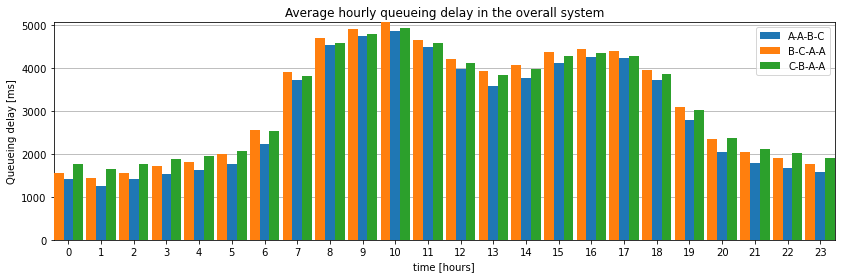
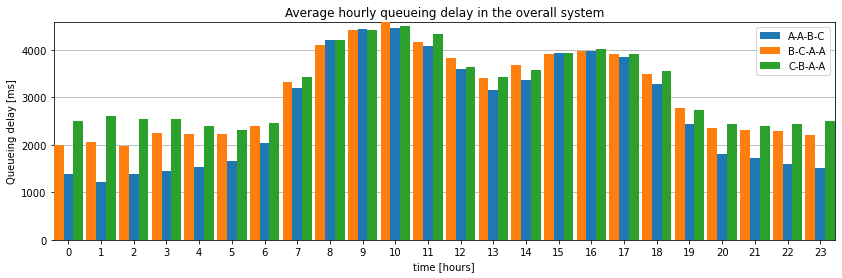
lab2 ex4b update

diff --git a/Lab2/ex4b_sim.py b/Lab2/ex4b_sim.py
@@ -29,49 +29,52 @@ if __name__ == '__main__':
     
     # SIMULATION PARAMS
     SIM_TIME = 86400000 # 24 hours simulation
+        
     
     #%% ABBC
     # data storage object
-    data = sim.Measure()
-    data_cloud = sim.Measure()
+    dataABBC = sim.Measure(0,0,0,0,0,0,0,0,0,0,[],[],[],
+                           [],[],[],[],[],[],[],[],[])
+    data_cloudABBC = sim.Measure(0,0,0,0,0,0,0,0,0,0,[],[],[],
+                           [],[],[],[],[],[],[],[],[])
     
     # simulator
-    s = sim.Simulator(data, data_cloud, LOAD, SERVICE, ARRIVAL, BUFFER_SIZE, 
+    s_ABBC = sim.Simulator(dataABBC, data_cloudABBC, LOAD, SERVICE, ARRIVAL, BUFFER_SIZE, 
                       FOG_NODES, SIM_TIME, f, CLOUD_SERVERS, CLOUD_BUFFER_SIZE, 
                       SERVICE_CLOUD,f_av_arrival, f_f)
     
     # insert constant service rate for all fog Nodes
-    s.CloudServerServTime = [200, 500, 500, 1000]
-    s.CloudServerCosts = [1, 0.4, 0.4, 0.1]
+    s_ABBC.CloudServerServTime = [200, 500, 500, 1000]
+    s_ABBC.CloudServerCosts = [1, 0.4, 0.4, 0.1]
     
     print_everything = False
-    data, data_cloud, time, _, _ = s.simulate(print_everything)
+    dataABBC, data_cloudABBC, time, _, _ = s_ABBC.simulate(print_everything)
     
     print('A-B-B-C simulation')
     print('-'*40)
-    print(f'Average Queueing Delay [ms] = {(data.delay + data_cloud.delay) / (data.dep + data_cloud.dep)}')
-    print(f'Loss Probability = {data_cloud.toCloud/data.arr}')
-    print(f'Average number of users = {(data.ut + data_cloud.ut)/time}')
-    print(f'Total Operational Cost = {sum(s.FogBusyTime * s.FogNodesCosts) + sum(s.CloudServerBusyTime * s.CloudServerCosts)}')
-    print(f'Micro Data Center Operational Cost = {sum(s.FogBusyTime * s.FogNodesCosts)}')
-    print(f'Cloud Data Center Operational Cost = {sum(s.CloudServerBusyTime * s.CloudServerCosts)}')
+    print(f'Average Queueing Delay [ms] = {(dataABBC.delay + data_cloudABBC.delay) / (dataABBC.dep + data_cloudABBC.dep)}')
+    print(f'Loss Probability = {data_cloudABBC.toCloud/dataABBC.arr}')
+    print(f'Average number of users = {(dataABBC.ut + data_cloudABBC.ut)/time}')
+    print(f'Total Operational Cost = {sum(s_ABBC.FogBusyTime * s_ABBC.FogNodesCosts) + sum(s_ABBC.CloudServerBusyTime * s_ABBC.CloudServerCosts)}')
+    print(f'Micro Data Center Operational Cost = {sum(s_ABBC.FogBusyTime * s_ABBC.FogNodesCosts)}')
+    print(f'Cloud Data Center Operational Cost = {sum(s_ABBC.CloudServerBusyTime * s_ABBC.CloudServerCosts)}')
     
     # Average queueing delay with progressively faster MDC service
     costs_hourlyABBC = []
     for i in range(0,24):
         cost_hourly = 0
-        for j in range(len(data_cloud.departureTimes)):
-            if data_cloud.departureTimes[j] > i * 3600000 and data_cloud.departureTimes[j] < (i+1) * 3600000:
-                cost_hourly += data_cloud.costs[j]
+        for j in range(len(data_cloudABBC.departureTimes)):
+            if data_cloudABBC.departureTimes[j] > i * 3600000 and data_cloudABBC.departureTimes[j] < (i+1) * 3600000:
+                cost_hourly += data_cloudABBC.costs[j]
         costs_hourlyABBC.append(cost_hourly)
 
     delay_hourly_avgsABBC = []
     for i in range(0,24):
         delay_hourly_avg = 0
         hour_count = 0
-        for j in range(len(data_cloud.departureTimes)):
-            if data_cloud.departureTimes[j] > i * 3600000 and data_cloud.departureTimes[j] < (i+1) * 3600000:
-                delay_hourly_avg += data_cloud.timeSystem[j]
+        for j in range(len(data_cloudABBC.departureTimes)):
+            if data_cloudABBC.departureTimes[j] > i * 3600000 and data_cloudABBC.departureTimes[j] < (i+1) * 3600000:
+                delay_hourly_avg += data_cloudABBC.timeSystem[j]
                 hour_count += 1
         delay_hourly_avg /= hour_count
         delay_hourly_avgsABBC.append(delay_hourly_avg)
@@ -79,46 +82,48 @@ if __name__ == '__main__':
 
     #%% AABC
     # data storage object
-    data = sim.Measure()
-    data_cloud = sim.Measure()
+    dataAABC = sim.Measure(0,0,0,0,0,0,0,0,0,0,[],[],[],
+                           [],[],[],[],[],[],[],[],[])
+    data_cloudAABC = sim.Measure(0,0,0,0,0,0,0,0,0,0,[],[],[],
+                           [],[],[],[],[],[],[],[],[])
     
     # simulator
-    s = sim.Simulator(data, data_cloud, LOAD, SERVICE, ARRIVAL, BUFFER_SIZE, 
+    s_AABC = sim.Simulator(dataAABC, data_cloudAABC, LOAD, SERVICE, ARRIVAL, BUFFER_SIZE, 
                       FOG_NODES, SIM_TIME, f, CLOUD_SERVERS, CLOUD_BUFFER_SIZE, 
                       SERVICE_CLOUD,f_av_arrival, f_f)
     
     # insert constant service rate for all fog Nodes
-    s.CloudServerServTime = [200, 200, 500, 1000]
-    s.CloudServerCosts = [1, 1, 0.4, 0.1]
+    s_AABC.CloudServerServTime = [200, 200, 500, 1000]
+    s_AABC.CloudServerCosts = [1, 1, 0.4, 0.1]
     
     print_everything = False
-    data, data_cloud, time, _, _ = s.simulate(print_everything)
+    dataAABC, data_cloudAABC, time, _, _ = s_AABC.simulate(print_everything)
     
     print('A-A-B-C simulation')
     print('-'*40)
-    print(f'Average Queueing Delay [ms] = {(data.delay + data_cloud.delay) / (data.dep + data_cloud.dep)}')
-    print(f'Loss Probability = {data_cloud.toCloud/data.arr}')
-    print(f'Average number of users = {(data.ut + data_cloud.ut)/time}')
-    print(f'Total Operational Cost = {sum(s.FogBusyTime * s.FogNodesCosts) + sum(s.CloudServerBusyTime * s.CloudServerCosts)}')
-    print(f'Micro Data Center Operational Cost = {sum(s.FogBusyTime * s.FogNodesCosts)}')
-    print(f'Cloud Data Center Operational Cost = {sum(s.CloudServerBusyTime * s.CloudServerCosts)}')
+    print(f'Average Queueing Delay [ms] = {(dataAABC.delay + data_cloudAABC.delay) / (dataAABC.dep + data_cloudAABC.dep)}')
+    print(f'Loss Probability = {data_cloudAABC.toCloud/dataAABC.arr}')
+    print(f'Average number of users = {(dataAABC.ut + data_cloudAABC.ut)/time}')
+    print(f'Total Operational Cost = {sum(s_AABC.FogBusyTime * s_AABC.FogNodesCosts) + sum(s_AABC.CloudServerBusyTime * s_AABC.CloudServerCosts)}')
+    print(f'Micro Data Center Operational Cost = {sum(s_AABC.FogBusyTime * s_AABC.FogNodesCosts)}')
+    print(f'Cloud Data Center Operational Cost = {sum(s_AABC.CloudServerBusyTime * s_AABC.CloudServerCosts)}')
 
     # Average queueing delay with progressively faster MDC service
     costs_hourlyAABC = []
     for i in range(0,24):
         cost_hourly = 0
-        for j in range(len(data_cloud.departureTimes)):
-            if data_cloud.departureTimes[j] > i * 3600000 and data_cloud.departureTimes[j] < (i+1) * 3600000:
-                cost_hourly += data_cloud.costs[j]
+        for j in range(len(data_cloudAABC.departureTimes)):
+            if data_cloudAABC.departureTimes[j] > i * 3600000 and data_cloudAABC.departureTimes[j] < (i+1) * 3600000:
+                cost_hourly += data_cloudAABC.costs[j]
         costs_hourlyAABC.append(cost_hourly)
 
     delay_hourly_avgsAABC = []
     for i in range(0,24):
         delay_hourly_avg = 0
         hour_count = 0
-        for j in range(len(data_cloud.departureTimes)):
-            if data_cloud.departureTimes[j] > i * 3600000 and data_cloud.departureTimes[j] < (i+1) * 3600000:
-                delay_hourly_avg += data_cloud.timeSystem[j]
+        for j in range(len(data_cloudAABC.departureTimes)):
+            if data_cloudAABC.departureTimes[j] > i * 3600000 and data_cloudAABC.departureTimes[j] < (i+1) * 3600000:
+                delay_hourly_avg += data_cloudAABC.timeSystem[j]
                 hour_count += 1
         delay_hourly_avg /= hour_count
         delay_hourly_avgsAABC.append(delay_hourly_avg)
@@ -126,59 +131,62 @@ if __name__ == '__main__':
 
     #%% ABCC
     # data storage object
-    data = sim.Measure()
-    data_cloud = sim.Measure()
+    dataABCC = sim.Measure(0,0,0,0,0,0,0,0,0,0,[],[],[],
+                           [],[],[],[],[],[],[],[],[])
+    data_cloudABCC = sim.Measure(0,0,0,0,0,0,0,0,0,0,[],[],[],
+                           [],[],[],[],[],[],[],[],[])
     
     # simulator
-    s = sim.Simulator(data, data_cloud, LOAD, SERVICE, ARRIVAL, BUFFER_SIZE, 
+    s_ABCC = sim.Simulator(dataABCC, data_cloudABCC, LOAD, SERVICE, ARRIVAL, BUFFER_SIZE, 
                       FOG_NODES, SIM_TIME, f, CLOUD_SERVERS, CLOUD_BUFFER_SIZE, 
                       SERVICE_CLOUD,f_av_arrival, f_f)
     
     # insert constant service rate for all fog Nodes
-    s.CloudServerServTime = [200, 500, 1000, 1000]
-    s.CloudServerCosts = [1, 0.4, 0.1, 0.1]
+    s_ABCC.CloudServerServTime = [200, 500, 1000, 1000]
+    s_ABCC.CloudServerCosts = [1, 0.4, 0.1, 0.1]
     
     print_everything = False
-    data, data_cloud, time, _, _ = s.simulate(print_everything)
+    dataABCC, data_cloudABCC, time, _, _ = s_ABCC.simulate(print_everything)
     
     print('A-B-C-C simulation')
     print('-'*40)
-    print(f'Average Queueing Delay [ms] = {(data.delay + data_cloud.delay) / (data.dep + data_cloud.dep)}')
-    print(f'Loss Probability = {data_cloud.toCloud/data.arr}')
-    print(f'Average number of users = {(data.ut + data_cloud.ut)/time}')
-    print(f'Total Operational Cost = {sum(s.FogBusyTime * s.FogNodesCosts) + sum(s.CloudServerBusyTime * s.CloudServerCosts)}')
-    print(f'Micro Data Center Operational Cost = {sum(s.FogBusyTime * s.FogNodesCosts)}')
-    print(f'Cloud Data Center Operational Cost = {sum(s.CloudServerBusyTime * s.CloudServerCosts)}')
+    print(f'Average Queueing Delay [ms] = {(dataABCC.delay + data_cloudABCC.delay) / (dataABCC.dep + data_cloudABCC.dep)}')
+    print(f'Loss Probability = {data_cloudABCC.toCloud/dataABCC.arr}')
+    print(f'Average number of users = {(dataABCC.ut + data_cloudABCC.ut)/time}')
+    print(f'Total Operational Cost = {sum(s_ABCC.FogBusyTime * s_ABCC.FogNodesCosts) + sum(s_ABCC.CloudServerBusyTime * s_ABCC.CloudServerCosts)}')
+    print(f'Micro Data Center Operational Cost = {sum(s_ABCC.FogBusyTime * s_ABCC.FogNodesCosts)}')
+    print(f'Cloud Data Center Operational Cost = {sum(s_ABCC.CloudServerBusyTime * s_ABCC.CloudServerCosts)}')
     
     # Average queueing delay with progressively faster MDC service
     costs_hourlyABCC = []
     for i in range(0,24):
         cost_hourly = 0
-        for j in range(len(data_cloud.departureTimes)):
-            if data_cloud.departureTimes[j] > i * 3600000 and data_cloud.departureTimes[j] < (i+1) * 3600000:
-                cost_hourly += data_cloud.costs[j]
+        for j in range(len(data_cloudABCC.departureTimes)):
+            if data_cloudABCC.departureTimes[j] > i * 3600000 and data_cloudABCC.departureTimes[j] < (i+1) * 3600000:
+                cost_hourly += data_cloudABCC.costs[j]
         costs_hourlyABCC.append(cost_hourly)
 
     delay_hourly_avgsABCC = []
     for i in range(0,24):
         delay_hourly_avg = 0
         hour_count = 0
-        for j in range(len(data_cloud.departureTimes)):
-            if data_cloud.departureTimes[j] > i * 3600000 and data_cloud.departureTimes[j] < (i+1) * 3600000:
-                delay_hourly_avg += data_cloud.timeSystem[j]
+        for j in range(len(data_cloudABCC.departureTimes)):
+            if data_cloudABCC.departureTimes[j] > i * 3600000 and data_cloudABCC.departureTimes[j] < (i+1) * 3600000:
+                delay_hourly_avg += data_cloudABCC.timeSystem[j]
                 hour_count += 1
         delay_hourly_avg /= hour_count
         delay_hourly_avgsABCC.append(delay_hourly_avg)
 
 
     #%% BCAA
-    
     # data storage object
-    data = sim.Measure()
-    data_cloud = sim.Measure()
+    dataBCAA = sim.Measure(0,0,0,0,0,0,0,0,0,0,[],[],[],
+                           [],[],[],[],[],[],[],[],[])
+    data_cloudBCAA = sim.Measure(0,0,0,0,0,0,0,0,0,0,[],[],[],
+                           [],[],[],[],[],[],[],[],[])
     
     # simulator
-    s = sim.Simulator(data, data_cloud, LOAD, SERVICE, ARRIVAL, BUFFER_SIZE, 
+    s = sim.Simulator(dataBCAA, data_cloudBCAA, LOAD, SERVICE, ARRIVAL, BUFFER_SIZE, 
                       FOG_NODES, SIM_TIME, f, CLOUD_SERVERS, CLOUD_BUFFER_SIZE, 
                       SERVICE_CLOUD,f_av_arrival, f_f)
     
@@ -187,13 +195,13 @@ if __name__ == '__main__':
     s.CloudServerCosts = [0.4, 0.1, 1, 1]
     
     print_everything = False
-    data, data_cloud, time, _, _ = s.simulate(print_everything)
+    dataBCAA, data_cloudBCAA, time, _, _ = s.simulate(print_everything)
     
     print('B-C-A-A simulation')
     print('-'*40)
-    print(f'Average Queueing Delay [ms] = {(data.delay + data_cloud.delay) / (data.dep + data_cloud.dep)}')
-    print(f'Loss Probability = {data_cloud.toCloud/data.arr}')
-    print(f'Average number of users = {(data.ut + data_cloud.ut)/time}')
+    print(f'Average Queueing Delay [ms] = {(dataBCAA.delay + data_cloudBCAA.delay) / (dataBCAA.dep + data_cloudBCAA.dep)}')
+    print(f'Loss Probability = {data_cloudBCAA.toCloud/dataBCAA.arr}')
+    print(f'Average number of users = {(dataBCAA.ut + data_cloudBCAA.ut)/time}')
     print(f'Total Operational Cost = {sum(s.FogBusyTime * s.FogNodesCosts) + sum(s.CloudServerBusyTime * s.CloudServerCosts)}')
     print(f'Micro Data Center Operational Cost = {sum(s.FogBusyTime * s.FogNodesCosts)}')
     print(f'Cloud Data Center Operational Cost = {sum(s.CloudServerBusyTime * s.CloudServerCosts)}')
@@ -201,31 +209,32 @@ if __name__ == '__main__':
     costs_hourlyBCAA = []
     for i in range(0,24):
         cost_hourly = 0
-        for j in range(len(data_cloud.departureTimes)):
-            if data_cloud.departureTimes[j] > i * 3600000 and data_cloud.departureTimes[j] < (i+1) * 3600000:
-                cost_hourly += data_cloud.costs[j]
+        for j in range(len(data_cloudBCAA.departureTimes)):
+            if data_cloudBCAA.departureTimes[j] > i * 3600000 and data_cloudBCAA.departureTimes[j] < (i+1) * 3600000:
+                cost_hourly += data_cloudBCAA.costs[j]
         costs_hourlyBCAA.append(cost_hourly)
         
     delay_hourly_avgsBCAA = []
     for i in range(0,24):
         delay_hourly_avg = 0
         hour_count = 0
-        for j in range(len(data_cloud.departureTimes)):
-            if data_cloud.departureTimes[j] > i * 3600000 and data_cloud.departureTimes[j] < (i+1) * 3600000:
-                delay_hourly_avg += data_cloud.timeSystem[j]
+        for j in range(len(data_cloudBCAA.departureTimes)):
+            if data_cloudBCAA.departureTimes[j] > i * 3600000 and data_cloudBCAA.departureTimes[j] < (i+1) * 3600000:
+                delay_hourly_avg += data_cloudBCAA.timeSystem[j]
                 hour_count += 1
         delay_hourly_avg /= hour_count
         delay_hourly_avgsBCAA.append(delay_hourly_avg)
     
     
     #%% CBAA
-    
     # data storage object
-    data = sim.Measure()
-    data_cloud = sim.Measure()
+    dataCBAA = sim.Measure(0,0,0,0,0,0,0,0,0,0,[],[],[],
+                           [],[],[],[],[],[],[],[],[])
+    data_cloudCBAA = sim.Measure(0,0,0,0,0,0,0,0,0,0,[],[],[],
+                           [],[],[],[],[],[],[],[],[])
     
     # simulator
-    s = sim.Simulator(data, data_cloud, LOAD, SERVICE, ARRIVAL, BUFFER_SIZE, 
+    s = sim.Simulator(dataCBAA, data_cloudCBAA, LOAD, SERVICE, ARRIVAL, BUFFER_SIZE, 
                       FOG_NODES, SIM_TIME, f, CLOUD_SERVERS, CLOUD_BUFFER_SIZE, 
                       SERVICE_CLOUD,f_av_arrival, f_f)
     
@@ -234,13 +243,13 @@ if __name__ == '__main__':
     s.CloudServerCosts = [0.1, 0.4, 1, 1]
     
     print_everything = False
-    data, data_cloud, time, _, _ = s.simulate(print_everything)
+    dataCBAA, data_cloudCBAA, time, _, _ = s.simulate(print_everything)
     
     print('C-B-A-A simulation')
     print('-'*40)
-    print(f'Average Queueing Delay [ms] = {(data.delay + data_cloud.delay) / (data.dep + data_cloud.dep)}')
-    print(f'Loss Probability = {data_cloud.toCloud/data.arr}')
-    print(f'Average number of users = {(data.ut + data_cloud.ut)/time}')
+    print(f'Average Queueing Delay [ms] = {(dataCBAA.delay + data_cloudCBAA.delay) / (dataCBAA.dep + data_cloudCBAA.dep)}')
+    print(f'Loss Probability = {data_cloudCBAA.toCloud/dataCBAA.arr}')
+    print(f'Average number of users = {(dataCBAA.ut + data_cloudCBAA.ut)/time}')
     print(f'Total Operational Cost = {sum(s.FogBusyTime * s.FogNodesCosts) + sum(s.CloudServerBusyTime * s.CloudServerCosts)}')
     print(f'Micro Data Center Operational Cost = {sum(s.FogBusyTime * s.FogNodesCosts)}')
     print(f'Cloud Data Center Operational Cost = {sum(s.CloudServerBusyTime * s.CloudServerCosts)}')
@@ -248,18 +257,18 @@ if __name__ == '__main__':
     costs_hourlyCBAA = []
     for i in range(0,24):
         cost_hourly = 0
-        for j in range(len(data_cloud.departureTimes)):
-            if data_cloud.departureTimes[j] > i * 3600000 and data_cloud.departureTimes[j] < (i+1) * 3600000:
-                cost_hourly += data_cloud.costs[j]
+        for j in range(len(data_cloudCBAA.departureTimes)):
+            if data_cloudCBAA.departureTimes[j] > i * 3600000 and data_cloudCBAA.departureTimes[j] < (i+1) * 3600000:
+                cost_hourly += data_cloudCBAA.costs[j]
         costs_hourlyCBAA.append(cost_hourly)
         
     delay_hourly_avgsCBAA = []
     for i in range(0,24):
         delay_hourly_avg = 0
         hour_count = 0
-        for j in range(len(data_cloud.departureTimes)):
-            if data_cloud.departureTimes[j] > i * 3600000 and data_cloud.departureTimes[j] < (i+1) * 3600000:
-                delay_hourly_avg += data_cloud.timeSystem[j]
+        for j in range(len(data_cloudCBAA.departureTimes)):
+            if data_cloudCBAA.departureTimes[j] > i * 3600000 and data_cloudCBAA.departureTimes[j] < (i+1) * 3600000:
+                delay_hourly_avg += data_cloudCBAA.timeSystem[j]
                 hour_count += 1
         delay_hourly_avg /= hour_count
         delay_hourly_avgsCBAA.append(delay_hourly_avg)

diff --git a/Lab2/simulator_class2.py b/Lab2/simulator_class2.py
@@ -18,6 +18,7 @@ class Measure:
                  timeSystem=[], arrivalTimes=[], lossTimes=[], costs=[],
                  lostPktTypes=[], typeAdelay=[], typeBdelay=[], typeAarrival=[],
                  typeBarrival=[]):
+        
         self.arr = Narr # number of arrivals
         self.dep = Ndep # number of departures
         self.ut = NAveraegUser
@@ -207,7 +208,7 @@ class Simulator():
         
         # STORE DATA
         self.data = data
-        self.data_cloud=data_cloud
+        self.data_cloud = data_cloud
 
     # Event handling functions
     def arrival(self, time, FES, queue, queue_cloud, fog_assign = 'Sorted', 
@@ -413,7 +414,7 @@ class Simulator():
             self.data_cloud.serviceTime += service_time
             client.service_time_cloud = service_time
             # Update busy time 
-            self.CloudServerBusyTime[client.cloudServer] += client.service_time_cloud
+            self.CloudServerBusyTime[client.cloudServer] += service_time
             self.data_cloud.costs.append(service_time * self.CloudServerCosts[client.cloudServer])
             
         elif self.users_cloud > self.CLOUD_SERVERS and self.users_cloud <= self.CLOUD_BUFFER_SIZE + self.CLOUD_SERVERS:
@@ -502,12 +503,12 @@ class Simulator():
             # schedule when the client will finish the server
             self.FES.put((time + service_time, "departure_cloud"))
             self.data_cloud.serviceTime += service_time
-            self.data_cloud.costs.append(service_time * self.CloudServerCosts[next_client.cloudServer])
             
             # Update stats
             next_client.service_time_cloud = service_time
             #self.data_cloud.waitingDelay.append(time - next_client.arrival_time_cloud)
-            self.CloudServerBusyTime[next_client.cloudServer] += next_client.service_time_cloud
+            self.CloudServerBusyTime[next_client.cloudServer] += service_time
+            self.data_cloud.costs.append(service_time * self.CloudServerCosts[next_client.cloudServer])
             
             # update buffer counter
             self.data_cloud.bufferOccupancy += self.users_in_buffer_cloud * (time - self.data_cloud.oldTbuffer)
